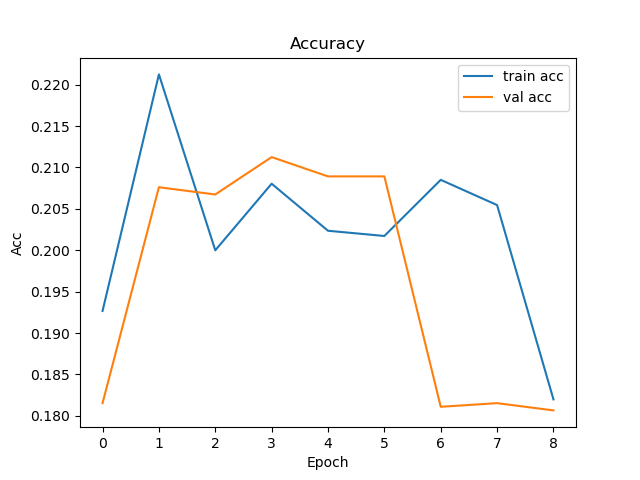
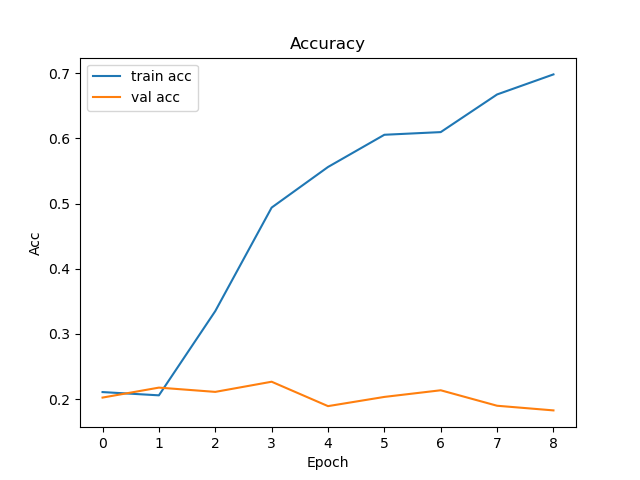
better acc on trian

diff --git a/src/modelling/eeg_scnn.py b/src/modelling/eeg_scnn.py
@@ -43,7 +43,8 @@ class EEGCSNN(torch.nn.Module):
             torch.nn.MaxPool2d(kernel_size=2, padding=0, stride=2),
             snntorch.Leaky(beta=beta, spike_grad=spike_grad, init_hidden=True),
             torch.nn.Flatten(start_dim=1),
-            torch.nn.Linear(in_features=16384, out_features=out_features),
+            torch.nn.Linear(in_features=16384, out_features=100),
+            torch.nn.Linear(in_features=100, out_features=out_features),
             # beta: randomly initialize decay rate for output neuron
             # Setting learn_beta=True enables the decay rate beta to be a learnable parameter
             snntorch.Leaky(beta=torch.rand(1), threshold=1.0, learn_beta=True, spike_grad=spike_grad, output=True),
